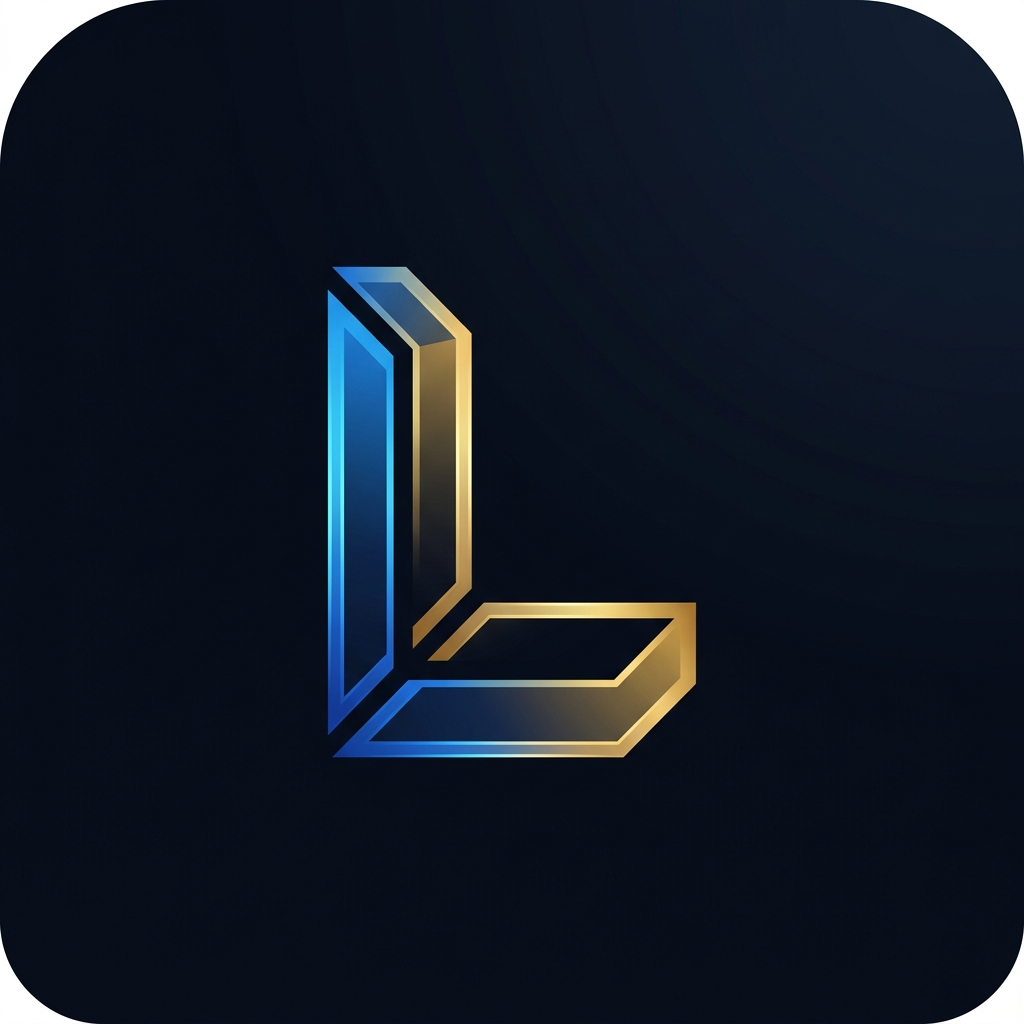
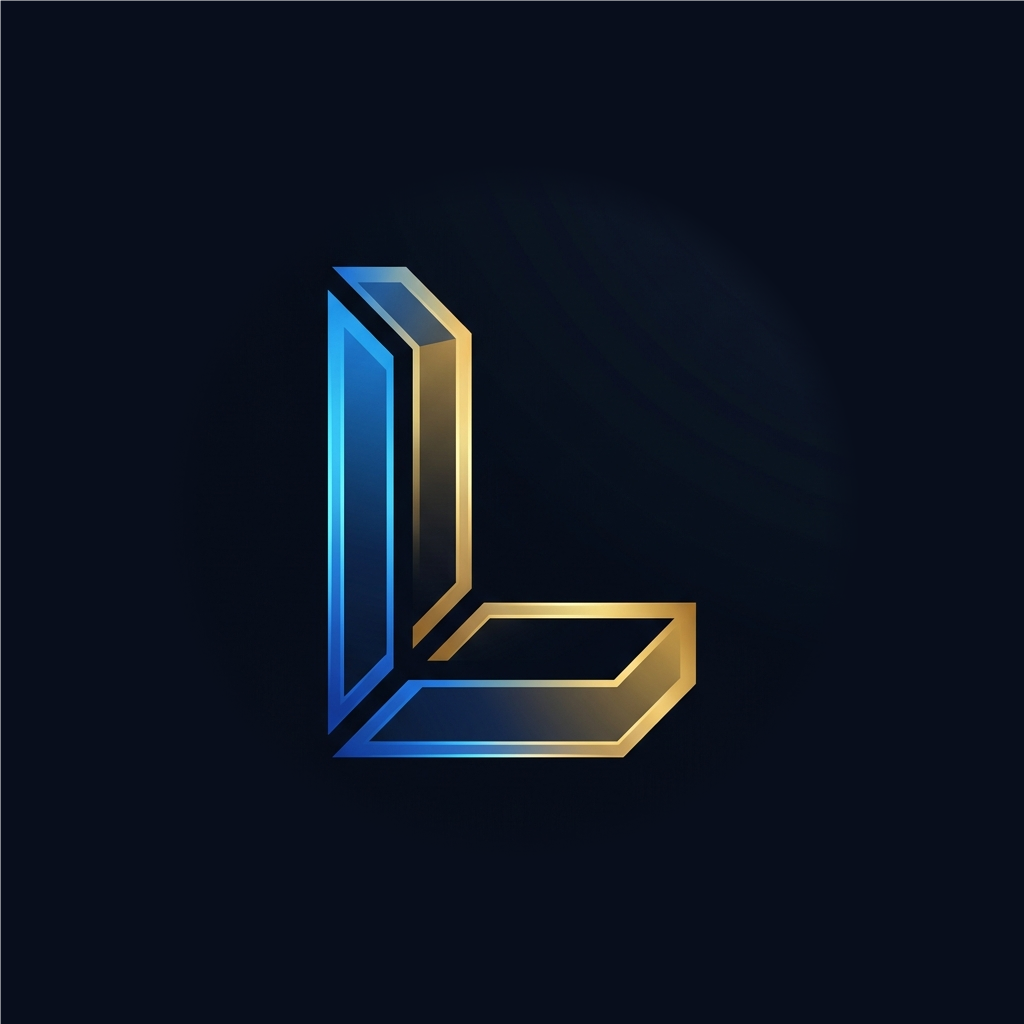
Updates

diff --git a/expo-assets/static/js/web/index-f96b5b28df9b825a304aec726748c597.js b/expo-assets/static/js/web/index-f96b5b28df9b825a304aec726748c597.js
@@ -301,7 +301,7 @@ __d(function(g,r,i,a,m,e,d){
    * LICENSE file in the root directory of this source tree.
    */
 "use strict";var n=Symbol.for("react.transitional.element"),t=Symbol.for("react.fragment");function o(t,o,f){var l=null;if(void 0!==f&&(l=""+f),void 0!==o.key&&(l=""+o.key),"key"in o)for(var y in f={},o)"key"!==y&&(f[y]=o[y]);else f=o;return o=f.ref,{$$typeof:n,type:t,key:l,ref:void 0!==o?o:null,props:f}}e.Fragment=t,e.jsx=o,e.jsxs=o},246,[]);
-__d(function(e,t,i,s,n,r,a){n.exports={uri:"/licencias_app/assets/assets/logo.6e4ebfce959f1e97fd2945d6f9361ca5.png",width:1024,height:1024,toString(){return this.uri}}},247,[]);
+__d(function(t,i,s,a,e,n,r){e.exports={uri:"/licencias_app/assets/assets/logo.a2f932022139d8ce589431a40a355769.png",width:1024,height:1024,toString(){return this.uri}}},247,[]);
 __d(function(g,r,i,a,m,_e,d){"use strict";function e(e){return e&&e.__esModule?e:{default:e}}Object.defineProperty(_e,'__esModule',{value:!0}),Object.defineProperty(_e,"Navigation",{enumerable:!0,get:function(){return u}}),r(d[0]);var t=e(r(d[1])),o=e(r(d[2])),n=e(r(d[3])),l=e(r(d[4])),c=e(r(d[5])),s=r(d[6]),b=r(d[7]);const u=({currentTab:e,onSelectTab:n,matchesCount:s})=>{const{width:u}=(0,c.default)(),h=u<768,y=[{key:'dashboard',label:'Inicio',icon:'\ud83d\udcca'},{key:'matches',label:h?'Cruces':'Cruces & Avisos',icon:'\u26a1',badge:s},{key:'vendedores',label:'Vendedores',icon:'\ud83d\ude95'},{key:'compradores',label:'Compradores',icon:'\ud83d\udc65'},{key:'ajustes',label:'Ajustes',icon:'\u2699\ufe0f'}];return(0,b.jsx)(t.default,{style:f.navContainer,children:(0,b.jsx)(t.default,{style:[f.barContent,h?f.barContentMobile:f.barContentDesktop],children:y.map(c=>{const s=e===c.key;return(0,b.jsxs)(l.default,{style:[f.tabItem,h?f.tabItemMobile:f.tabItemDesktop,s&&f.tabItemActive],onPress:()=>n(c.key),activeOpacity:.7,children:[(0,b.jsxs)(t.default,{style:f.iconContainer,children:[(0,b.jsx)(o.default,{style:f.iconText,children:c.icon}),'number'==typeof c.badge&&c.badge>0&&(0,b.jsx)(t.default,{style:f.badge,children:(0,b.jsx)(o.default,{style:f.badgeText,children:c.badge})})]}),(0,b.jsx)(o.default,{style:[f.tabLabel,h&&f.tabLabelMobile,s&&f.tabLabelActive],numberOfLines:1,children:c.label})]},c.key)})})})},f=n.default.create({navContainer:{backgroundColor:s.colors.surface,borderBottomWidth:1,borderBottomColor:s.colors.border,width:'100%'},barContent:{flexDirection:'row',width:'100%'},barContentMobile:{justifyContent:'space-between',paddingHorizontal:2},barContentDesktop:{justifyContent:'center',maxWidth:1100,alignSelf:'center',paddingHorizontal:16,gap:8},tabItem:{alignItems:'center',justifyContent:'center',borderBottomWidth:3,borderBottomColor:'transparent'},tabItemMobile:{flex:1,height:52,alignItems:'center',justifyContent:'center',paddingVertical:4},tabItemDesktop:{flexDirection:'row',paddingVertical:12,paddingHorizontal:16,gap:8},tabItemActive:{borderBottomColor:s.colors.primary,backgroundColor:'rgba(37, 99, 235, 0.08)'},iconContainer:{width:32,height:22,alignItems:'center',justifyContent:'center',position:'relative'},iconText:{fontSize:16,textAlign:'center'},badge:{position:'absolute',top:-4,right:-4,backgroundColor:s.colors.accent,borderRadius:8,minWidth:16,height:16,justifyContent:'center',alignItems:'center',paddingHorizontal:3},badgeText:{color:'#000',fontSize:9,fontWeight:'900'},tabLabel:{fontSize:13,fontWeight:'600',color:s.colors.textMuted},tabLabelMobile:{fontSize:10,fontWeight:'700',marginTop:2,textAlign:'center'},tabLabelActive:{color:s.colors.text,fontWeight:'800'}})},248,[38,145,235,46,236,239,177,245]);
 __d(function(g,r,i,a,m,_e,d){"use strict";function e(e){return e&&e.__esModule?e:{default:e}}Object.defineProperty(_e,'__esModule',{value:!0}),Object.defineProperty(_e,"VendedorModal",{enumerable:!0,get:function(){return j}});var t=r(d[0]),l=e(r(d[1])),o=e(r(d[2])),s=e(r(d[3])),c=e(r(d[4])),n=e(r(d[5])),u=e(r(d[6])),x=e(r(d[7])),h=e(r(d[8])),f=r(d[9]),C=r(d[10]),A=r(d[11]);const p=['LUNES','MARTES','MIERCOLES','JUEVES','VIERNES','EUROTAXI','ELECTRICO_SIN_LIBRANZA'],j=({visible:e,onClose:s,onSave:j,vendedorToEdit:y})=>{const[b,O]=(0,t.useState)(''),[I,E]=(0,t.useState)(''),[S,R]=(0,t.useState)('TELEFONO'),[v,N]=(0,t.useState)(''),[B,L]=(0,t.useState)('PARTICULAR'),[P,_]=(0,t.useState)('LUNES'),[w,M]=(0,t.useState)('PAR'),[D,W]=(0,t.useState)('SIN_CARGA'),[z,F]=(0,t.useState)(''),[k,G]=(0,t.useState)('SOLO_LICENCIA'),[V,U]=(0,t.useState)(''),[H,J]=(0,t.useState)(''),[K,q]=(0,t.useState)(''),[X,Y]=(0,t.useState)('SIN_CARGA'),[Z,$]=(0,t.useState)(''),[Q,ee]=(0,t.useState)(!1),[te,le]=(0,t.useState)(''),[oe,re]=(0,t.useState)(''),[se,ae]=(0,t.useState)(''),[ce,ne]=(0,t.useState)(!1),[ie,de]=(0,t.useState)('INMEDIATA'),[ue,xe]=(0,t.useState)(''),[he,fe]=(0,t.useState)(''),[Ce,Ae]=(0,t.useState)(''),[pe,je]=(0,t.useState)('DISPONIBLE');(0,t.useEffect)(()=>{if(y){O(y.nombre),E(y.telefono),R(y.canalContacto||'TELEFONO'),N(y.contactoOrigen||''),L(y.perfil),_(y.diaLibranza),M(y.turnoDescanso||'PAR'),W(y.cargaLicencia),F(y.detalleCargaLicencia||'');const e=y.modalidadVentaCoche||(y.vendeConCoche?'CON_COCHE':'SOLO_LICENCIA');G(e),y.vehiculo?(U(y.vehiculo.modelo),J(String(y.vehiculo.anoMatriculacion)),q(String(y.vehiculo.kilometros)),Y(y.vehiculo.carga),$(y.vehiculo.detalleCarga||''),ee(Boolean(y.vehiculo.exentoLibranza)),le(y.vehiculo.detalleExencion||'')):(U(''),J(''),q(''),Y('SIN_CARGA'),$(''),ee(!1),le('')),re(y.precio?String(y.precio):''),ae(y.precioConCoche?String(y.precioConCoche):''),ne(y.precioNegociable),de(y.condicionVenta),xe(y.fechaJubilacion||''),fe(y.detalleCondicion||''),Ae(y.notas||''),je(y.estado)}else O(''),E(''),R('TELEFONO'),N(''),L('PARTICULAR'),_('LUNES'),M('PAR'),W('SIN_CARGA'),F(''),G('SOLO_LICENCIA'),U(''),J(''),q(''),Y('SIN_CARGA'),$(''),ee(!1),le(''),re(''),ae(''),ne(!1),de('INMEDIATA'),xe(''),fe(''),Ae(''),je('DISPONIBLE')},[y,e]);return(0,A.jsx)(c.default,{visible:e,animationType:"slide",transparent:!0,onRequestClose:s,children:(0,A.jsx)(l.default,{style:T.overlay,children:(0,A.jsxs)(l.default,{style:T.modalBox,children:[(0,A.jsxs)(l.default,{style:T.header,children:[(0,A.jsxs)(l.default,{children:[(0,A.jsx)(o.default,{style:T.title,children:y?'\u270f\ufe0f Editar Vendedor':'\u2795 Nuevo Vendedor / Licencia'}),(0,A.jsx)(o.default,{style:T.subtitle,children:"Introduce los datos de la licencia para venta"})]}),(0,A.jsx)(n.default,{style:T.closeBtn,onPress:s,children:(0,A.jsx)(o.default,{style:T.closeText,children:"\u2715"})})]}),(0,A.jsxs)(x.default,{style:T.scrollArea,keyboardShouldPersistTaps:"handled",children:[(0,A.jsxs)(l.default,{style:T.section,children:[(0,A.jsx)(o.default,{style:T.sectionTitle,children:"1. CANAL DE CONTACTO Y PERFIL"}),(0,A.jsxs)(l.default,{style:T.inputGroup,children:[(0,A.jsx)(o.default,{style:T.label,children:"Canal / Plataforma de Origen"}),(0,A.jsxs)(l.default,{style:T.selectorRow,children:[(0,A.jsx)(n.default,{style:[T.selectorBtn,'TELEFONO'===S&&{backgroundColor:f.colors.canales.TELEFONO,borderColor:f.colors.canales.TELEFONO}],onPress:()=>R('TELEFONO'),children:(0,A.jsx)(o.default,{style:[T.selectorText,'TELEFONO'===S&&T.selectorTextActive],children:"\ud83d\udcde Tel\xe9fono"})}),(0,A.jsx)(n.default,{style:[T.selectorBtn,'WALLAPOP'===S&&{backgroundColor:f.colors.canales.WALLAPOP,borderColor:f.colors.canales.WALLAPOP}],onPress:()=>R('WALLAPOP'),children:(0,A.jsx)(o.default,{style:[T.selectorText,'WALLAPOP'===S&&T.selectorTextActive],children:"\ud83d\udfe0 Wallapop"})}),(0,A.jsx)(n.default,{style:[T.selectorBtn,'MILANUNCIOS'===S&&{backgroundColor:f.colors.canales.MILANUNCIOS,borderColor:f.colors.canales.MILANUNCIOS}],onPress:()=>R('MILANUNCIOS'),children:(0,A.jsx)(o.default,{style:[T.selectorText,'MILANUNCIOS'===S&&T.selectorTextActive],children:"\ud83d\udfe2 Milanuncios"})}),(0,A.jsx)(n.default,{style:[T.selectorBtn,'FACEBOOK'===S&&{backgroundColor:f.colors.canales.FACEBOOK,borderColor:f.colors.canales.FACEBOOK}],onPress:()=>R('FACEBOOK'),children:(0,A.jsx)(o.default,{style:[T.selectorText,'FACEBOOK'===S&&T.selectorTextActive],children:"\ud83d\udd35 Facebook"})}),(0,A.jsx)(n.default,{style:[T.selectorBtn,'OTRO'===S&&{backgroundColor:f.colors.canales.OTRO,borderColor:f.colors.canales.OTRO}],onPress:()=>R('OTRO'),children:(0,A.jsx)(o.default,{style:[T.selectorText,'OTRO'===S&&T.selectorTextActive],children:"\ud83d\udcac Otro"})})]})]}),(0,A.jsxs)(l.default,{style:T.row,children:[(0,A.jsxs)(l.default,{style:T.col,children:[(0,A.jsx)(o.default,{style:T.label,children:"Nombre o Alias *"}),(0,A.jsx)(u.default,{style:T.input,value:b,onChangeText:O,placeholder:'TELEFONO'===S?"Ej. Juan P\xe9rez":"Ej. Carlos (Wallapop)",placeholderTextColor:f.colors.textSubtle})]}),(0,A.jsxs)(l.default,{style:T.col,children:[(0,A.jsx)(o.default,{style:T.label,children:'TELEFONO'===S?'Tel\xe9fono / WhatsApp':'Tel\xe9fono (Opcional)'}),(0,A.jsx)(u.default,{style:T.input,value:I,onChangeText:E,placeholder:'TELEFONO'===S?"600 000 000":"Pendiente de pedir",placeholderTextColor:f.colors.textSubtle,keyboardType:"phone-pad"})]})]}),'TELEFONO'!==S&&(0,A.jsxs)(l.default,{style:T.inputGroup,children:[(0,A.jsxs)(o.default,{style:T.label,children:["Usuario o Enlace del chat (",'WALLAPOP'===S?'Wallapop':'MILANUNCIOS'===S?'Milanuncios':'FACEBOOK'===S?'Facebook':'Plataforma',")"]}),(0,A.jsx)(u.default,{style:T.input,value:v,onChangeText:N,placeholder:"Ej. @carlos_taxi o enlace del chat / anuncio...",placeholderTextColor:f.colors.textSubtle}),(0,A.jsx)(o.default,{style:T.sublabel,children:"\ud83d\udca1 Puedes guardarlo sin tel\xe9fono ahora y a\xf1adirlo cuando te lo facilite en la conversaci\xf3n."})]}),(0,A.jsxs)(l.default,{style:T.inputGroup,children:[(0,A.jsx)(o.default,{style:T.label,children:"Tipo de Vendedor"}),(0,A.jsxs)(l.default,{style:T.selectorRow,children:[(0,A.jsx)(n.default,{style:[T.selectorBtn,'PARTICULAR'===B&&T.selectorBtnActive],onPress:()=>L('PARTICULAR'),children:(0,A.jsx)(o.default,{style:[T.selectorText,'PARTICULAR'===B&&T.selectorTextActive],children:"Particular"})}),(0,A.jsx)(n.default,{style:[T.selectorBtn,'INTERMEDIARIO'===B&&T.selectorBtnActive],onPress:()=>L('INTERMEDIARIO'),children:(0,A.jsx)(o.default,{style:[T.selectorText,'INTERMEDIARIO'===B&&T.selectorTextActive],children:"Intermediario / Gestor"})})]})]})]}),(0,A.jsxs)(l.default,{style:T.section,children:[(0,A.jsx)(o.default,{style:T.sectionTitle,children:"2. DATOS DE LA LICENCIA"}),(0,A.jsxs)(l.default,{style:T.inputGroup,children:[(0,A.jsx)(o.default,{style:T.label,children:"D\xeda de Libranza Semanal"}),(0,A.jsx)(l.default,{style:T.diasRow,children:p.map(e=>{const t=P===e;return(0,A.jsx)(n.default,{style:[T.diaBtn,t&&{backgroundColor:f.colors.libranza[e]||f.colors.primary,borderColor:f.colors.libranza[e]}],onPress:()=>{_(e),'EUROTAXI'===e||'ELECTRICO_SIN_LIBRANZA'===e?M('LIBRE_24H'):'LIBRE_24H'===w&&M('PAR')},children:(0,A.jsx)(o.default,{style:[T.diaBtnText,t&&T.diaBtnTextActive],children:'EUROTAXI'===e?'\u267f EUROTAXI':'ELECTRICO_SIN_LIBRANZA'===e?'\u26a1 EL\xc9CTRICO (Sin libranza)':e})},e)})})]}),(0,A.jsxs)(l.default,{style:T.inputGroup,children:[(0,A.jsx)(o.default,{style:T.label,children:"R\xe9gimen de Turno / Fin de Semana (Par o Impar)"}),(0,A.jsxs)(l.default,{style:T.selectorRow,children:[(0,A.jsx)(n.default,{style:[T.selectorBtn,'PAR'===w&&T.selectorBtnActive],onPress:()=>M('PAR'),children:(0,A.jsx)(o.default,{style:[T.selectorText,'PAR'===w&&T.selectorTextActive],children:"\ud83d\udd22 PAR (Finde Par)"})}),(0,A.jsx)(n.default,{style:[T.selectorBtn,'IMPAR'===w&&T.selectorBtnActive],onPress:()=>M('IMPAR'),children:(0,A.jsx)(o.default,{style:[T.selectorText,'IMPAR'===w&&T.selectorTextActive],children:"\ud83d\udd22 IMPAR (Finde Impar)"})}),(0,A.jsx)(n.default,{style:[T.selectorBtn,'ROTATIVO'===w&&T.selectorBtnActive],onPress:()=>M('ROTATIVO'),children:(0,A.jsx)(o.default,{style:[T.selectorText,'ROTATIVO'===w&&T.selectorTextActive],children:"\ud83d\udd04 Finde alterno"})}),(0,A.jsx)(n.default,{style:[T.selectorBtn,'LIBRE_24H'===w&&T.selectorBtnActive],onPress:()=>M('LIBRE_24H'),children:(0,A.jsx)(o.default,{style:[T.selectorText,'LIBRE_24H'===w&&T.selectorTextActive],children:"\ud83d\udfe2 Libre / 24h"})})]})]}),(0,A.jsxs)(l.default,{style:T.inputGroup,children:[(0,A.jsx)(o.default,{style:T.label,children:"Carga de la Licencia (Pr\xe9stamo / Otro)"}),(0,A.jsxs)(l.default,{style:T.selectorRow,children:[(0,A.jsx)(n.default,{style:[T.selectorBtn,'SIN_CARGA'===D&&T.selectorBtnActive],onPress:()=>W('SIN_CARGA'),children:(0,A.jsx)(o.default,{style:[T.selectorText,'SIN_CARGA'===D&&T.selectorTextActive],children:"Sin Carga (Libre)"})}),(0,A.jsx)(n.default,{style:[T.selectorBtn,'PRESTAMO'===D&&T.selectorBtnActive],onPress:()=>W('PRESTAMO'),children:(0,A.jsx)(o.default,{style:[T.selectorText,'PRESTAMO'===D&&T.selectorTextActive],children:"Con Pr\xe9stamo"})}),(0,A.jsx)(n.default,{style:[T.selectorBtn,'OTRO'===D&&T.selectorBtnActive],onPress:()=>W('OTRO'),children:(0,A.jsx)(o.default,{style:[T.selectorText,'OTRO'===D&&T.selectorTextActive],children:"Otra Carga"})})]}),'SIN_CARGA'!==D&&(0,A.jsx)(u.default,{style:[T.input,{marginTop:8}],value:z,onChangeText:F,placeholder:"Detalle de la carga (banco, importe pendiente, mensualidad...)",placeholderTextColor:f.colors.textSubtle})]})]}),(0,A.jsxs)(l.default,{style:T.section,children:[(0,A.jsx)(o.default,{style:T.sectionTitle,children:"3. VEH\xcdCULO / PACK DE VENTA"}),(0,A.jsx)(o.default,{style:T.sublabel,children:"\xbfC\xf3mo comercializa la licencia respecto al veh\xedculo?"}),(0,A.jsxs)(l.default,{style:T.selectorRow,children:[(0,A.jsx)(n.default,{style:[T.selectorBtn,'SOLO_LICENCIA'===k&&T.selectorBtnActive],onPress:()=>G('SOLO_LICENCIA'),children:(0,A.jsx)(o.default,{style:[T.selectorText,'SOLO_LICENCIA'===k&&T.selectorTextActive],children:"Solo Licencia"})}),(0,A.jsx)(n.default,{style:[T.selectorBtn,'CON_COCHE'===k&&T.selectorBtnActive],onPress:()=>G('CON_COCHE'),children:(0,A.jsx)(o.default,{style:[T.selectorText,'CON_COCHE'===k&&T.selectorTextActive],children:"Con Coche (Pack)"})}),(0,A.jsx)(n.default,{style:[T.selectorBtn,'AMBAS_OPCIONES'===k&&T.selectorBtnActive],onPress:()=>G('AMBAS_OPCIONES'),children:(0,A.jsx)(o.default,{style:[T.selectorText,'AMBAS_OPCIONES'===k&&T.selectorTextActive],children:"\u2728 Ambas Opciones"})})]}),'AMBAS_OPCIONES'===k&&(0,A.jsx)(l.default,{style:T.infoBanner,children:(0,A.jsxs)(o.default,{style:T.infoBannerText,children:["\ud83d\udca1 ",(0,A.jsx)(o.default,{style:{fontWeight:'700'},children:"Venta Flexible:"})," El vendedor ofrece vender solo la licencia (se queda su veh\xedculo) o vender el pack completo con coche. Podr\xe1s fijar ambos precios a continuaci\xf3n."]})}),'SOLO_LICENCIA'!==k&&(0,A.jsxs)(l.default,{style:T.subBox,children:[(0,A.jsxs)(l.default,{style:T.inputGroup,children:[(0,A.jsx)(o.default,{style:T.label,children:"Modelo del veh\xedculo"}),(0,A.jsx)(u.default,{style:T.input,value:V,onChangeText:U,placeholder:"Ej. Tesla Model Y / Toyota Corolla / Prius...",placeholderTextColor:f.colors.textSubtle})]}),(0,A.jsxs)(l.default,{style:T.row,children:[(0,A.jsxs)(l.default,{style:T.col,children:[(0,A.jsx)(o.default,{style:T.label,children:"A\xf1o o Antig\xfcedad"}),(0,A.jsx)(u.default,{style:T.input,value:H,onChangeText:J,placeholder:"Ej. 2023 o 3.5 a\xf1os",placeholderTextColor:f.colors.textSubtle})]}),(0,A.jsxs)(l.default,{style:T.col,children:[(0,A.jsx)(o.default,{style:T.label,children:"Kil\xf3metros"}),(0,A.jsx)(u.default,{style:T.input,value:K,onChangeText:q,placeholder:"Ej. 95.000",placeholderTextColor:f.colors.textSubtle,keyboardType:"numeric"})]})]}),(0,A.jsxs)(l.default,{style:T.inputGroup,children:[(0,A.jsx)(o.default,{style:T.label,children:"Carga o Financiaci\xf3n del Veh\xedculo"}),(0,A.jsxs)(l.default,{style:T.selectorRow,children:[(0,A.jsx)(n.default,{style:[T.selectorBtn,'SIN_CARGA'===X&&T.selectorBtnActive],onPress:()=>Y('SIN_CARGA'),children:(0,A.jsx)(o.default,{style:[T.selectorText,'SIN_CARGA'===X&&T.selectorTextActive],children:"Pagado / Libre"})}),(0,A.jsx)(n.default,{style:[T.selectorBtn,'PRESTAMO'===X&&T.selectorBtnActive],onPress:()=>Y('PRESTAMO'),children:(0,A.jsx)(o.default,{style:[T.selectorText,'PRESTAMO'===X&&T.selectorTextActive],children:"Financiaci\xf3n / Reserva dominio"})})]}),'SIN_CARGA'!==X&&(0,A.jsx)(u.default,{style:[T.input,{marginTop:8}],value:Z,onChangeText:$,placeholder:"Ej. Debe 30.000\u20ac de pr\xe9stamo a liquidar de Tesla...",placeholderTextColor:f.colors.textSubtle})]}),(0,A.jsxs)(l.default,{style:[T.inputGroup,{marginTop:4}],children:[(0,A.jsxs)(l.default,{style:T.switchRow,children:[(0,A.jsxs)(l.default,{style:{flex:1,paddingRight:8},children:[(0,A.jsx)(o.default,{style:T.label,children:"\u26a1 Exenci\xf3n de Libranza (CERO Emisiones / Eurotaxi)"}),(0,A.jsx)(o.default,{style:T.sublabel,children:"\xbfPermite trabajar sin libranza obligatoria?"})]}),(0,A.jsx)(h.default,{value:Q,onValueChange:ee,trackColor:{false:f.colors.border,true:f.colors.primary},thumbColor:f.colors.white})]}),Q&&(0,A.jsx)(u.default,{style:[T.input,{marginTop:8}],value:te,onChangeText:le,placeholder:"Ej. Exenta de libranza hasta 2033 por 100% el\xe9ctrico",placeholderTextColor:f.colors.textSubtle})]})]})]}),(0,A.jsxs)(l.default,{style:T.section,children:[(0,A.jsx)(o.default,{style:T.sectionTitle,children:"4. PRECIO Y CONDICIONES GENERALES"}),'AMBAS_OPCIONES'===k?(0,A.jsxs)(l.default,{children:[(0,A.jsxs)(l.default,{style:T.row,children:[(0,A.jsxs)(l.default,{style:[T.col,{flex:1}],children:[(0,A.jsx)(o.default,{style:T.label,children:"Precio Solo Licencia (\u20ac) *"}),(0,A.jsx)(u.default,{style:[T.input,T.priceInput],value:oe,onChangeText:re,placeholder:"Ej. 190.000",placeholderTextColor:f.colors.textSubtle,keyboardType:"numeric"}),(0,A.jsx)(o.default,{style:T.sublabel,children:"Si se queda el coche"})]}),(0,A.jsxs)(l.default,{style:[T.col,{flex:1}],children:[(0,A.jsx)(o.default,{style:T.label,children:"Precio Con Coche (\u20ac) *"}),(0,A.jsx)(u.default,{style:[T.input,T.priceInput],value:se,onChangeText:ae,placeholder:"Ej. 225.000",placeholderTextColor:f.colors.textSubtle,keyboardType:"numeric"}),(0,A.jsx)(o.default,{style:T.sublabel,children:"Pack completo con coche"})]})]}),(0,A.jsxs)(l.default,{style:[T.switchBox,{marginTop:8}],children:[(0,A.jsx)(o.default,{style:{color:f.colors.text,fontSize:12,fontWeight:'600'},children:"\xbfPrecios negociables?"}),(0,A.jsxs)(l.default,{style:{flexDirection:'row',alignItems:'center',gap:8},children:[(0,A.jsx)(o.default,{style:{color:ce?f.colors.accent:f.colors.textMuted,fontWeight:'700',fontSize:12},children:ce?'Negociables':'Precios Fijos'}),(0,A.jsx)(h.default,{value:ce,onValueChange:ne,trackColor:{false:f.colors.border,true:f.colors.accent},thumbColor:f.colors.white})]})]})]}):(0,A.jsxs)(l.default,{style:T.row,children:[(0,A.jsxs)(l.default,{style:[T.col,{flex:1.4}],children:[(0,A.jsx)(o.default,{style:T.label,children:'CON_COCHE'===k?'Precio Total con Coche (\u20ac) *':'Precio de Venta Licencia (\u20ac) *'}),(0,A.jsx)(u.default,{style:[T.input,T.priceInput],value:oe,onChangeText:re,placeholder:"Ej. 190.000",placeholderTextColor:f.colors.textSubtle,keyboardType:"numeric"})]}),(0,A.jsxs)(l.default,{style:[T.col,{flex:1}],children:[(0,A.jsx)(o.default,{style:T.label,children:"\xbfEs Negociable?"}),(0,A.jsxs)(l.default,{style:T.switchBox,children:[(0,A.jsx)(o.default,{style:{color:ce?f.colors.accent:f.colors.textMuted,fontWeight:'700',fontSize:12},children:ce?'Negociable':'Precio Fijo'}),(0,A.jsx)(h.default,{value:ce,onValueChange:ne,trackColor:{false:f.colors.border,true:f.colors.accent},thumbColor:f.colors.white})]})]})]}),(0,A.jsxs)(l.default,{style:T.inputGroup,children:[(0,A.jsx)(o.default,{style:T.label,children:"Condici\xf3n de Venta"}),(0,A.jsxs)(l.default,{style:T.selectorRow,children:[(0,A.jsx)(n.default,{style:[T.selectorBtn,'INMEDIATA'===ie&&T.selectorBtnActive],onPress:()=>de('INMEDIATA'),children:(0,A.jsx)(o.default,{style:[T.selectorText,'INMEDIATA'===ie&&T.selectorTextActive],children:"Inmediata"})}),(0,A.jsx)(n.default,{style:[T.selectorBtn,'JUBILACION'===ie&&T.selectorBtnActive],onPress:()=>de('JUBILACION'),children:(0,A.jsx)(o.default,{style:[T.selectorText,'JUBILACION'===ie&&T.selectorTextActive],children:"Tras Jubilaci\xf3n"})}),(0,A.jsx)(n.default,{style:[T.selectorBtn,'OTRA'===ie&&T.selectorBtnActive],onPress:()=>de('OTRA'),children:(0,A.jsx)(o.default,{style:[T.selectorText,'OTRA'===ie&&T.selectorTextActive],children:"Otra Condici\xf3n"})})]}),'JUBILACION'===ie&&(0,A.jsxs)(l.default,{style:{marginTop:8},children:[(0,A.jsx)(o.default,{style:T.sublabel,children:"Fecha prevista de jubilaci\xf3n:"}),(0,A.jsx)(u.default,{style:T.input,value:ue,onChangeText:xe,placeholder:"Ej. 30/11/2026 o Finales de a\xf1o...",placeholderTextColor:f.colors.textSubtle})]}),'OTRA'===ie&&(0,A.jsxs)(l.default,{style:{marginTop:8},children:[(0,A.jsx)(o.default,{style:T.sublabel,children:"Especificar condici\xf3n:"}),(0,A.jsx)(u.default,{style:T.input,value:he,onChangeText:fe,placeholder:"Ej. Entrega sujeta a entrega de piso / fecha especial...",placeholderTextColor:f.colors.textSubtle})]})]}),(0,A.jsxs)(l.default,{style:T.inputGroup,children:[(0,A.jsx)(o.default,{style:T.label,children:"Notas adicionales"}),(0,A.jsx)(u.default,{style:[T.input,T.textArea],value:Ce,onChangeText:Ae,placeholder:"Detalles sobre el estado de la licencia, tax\xedmetro, revisiones...",placeholderTextColor:f.colors.textSubtle,multiline:!0,numberOfLines:3})]}),(0,A.jsxs)(l.default,{style:T.inputGroup,children:[(0,A.jsx)(o.default,{style:T.label,children:"Estado"}),(0,A.jsxs)(l.default,{style:T.selectorRow,children:[(0,A.jsx)(n.default,{style:[T.selectorBtn,'DISPONIBLE'===pe&&T.selectorBtnActive],onPress:()=>je('DISPONIBLE'),children:(0,A.jsx)(o.default,{style:[T.selectorText,'DISPONIBLE'===pe&&T.selectorTextActive],children:"Disponible"})}),(0,A.jsx)(n.default,{style:[T.selectorBtn,'EN_NEGOCIACION'===pe&&T.selectorBtnActive],onPress:()=>je('EN_NEGOCIACION'),children:(0,A.jsx)(o.default,{style:[T.selectorText,'EN_NEGOCIACION'===pe&&T.selectorTextActive],children:"En Negociaci\xf3n"})}),(0,A.jsx)(n.default,{style:[T.selectorBtn,'CERRADO'===pe&&T.selectorBtnActive],onPress:()=>je('CERRADO'),children:(0,A.jsx)(o.default,{style:[T.selectorText,'CERRADO'===pe&&T.selectorTextActive],children:"\ud83c\udfc1 Finalizada"})})]})]})]})]}),(0,A.jsxs)(l.default,{style:T.footer,children:[(0,A.jsx)(n.default,{style:T.cancelBtn,onPress:s,children:(0,A.jsx)(o.default,{style:T.cancelBtnText,children:"Cancelar"})}),(0,A.jsx)(n.default,{style:T.saveBtn,onPress:()=>{if(!b.trim())return void alert('Por favor indica el nombre del vendedor');const e=parseFloat(oe.replace(/[^\d.]/g,''))||0;if(e<=0)return void alert('Por favor introduce un precio v\xe1lido para la licencia');const t='SOLO_LICENCIA'!==k,l='AMBAS_OPCIONES'===k?parseFloat(se.replace(/[^\d.]/g,''))||void 0:'CON_COCHE'===k?e:void 0,o={id:y?y.id:`v-${Date.now()}`,nombre:b.trim(),telefono:I.trim(),canalContacto:S,contactoOrigen:'TELEFONO'!==S&&(0,C.sanitizeContactInput)(v)||void 0,fechaCreacion:y?y.fechaCreacion:(new Date).toISOString(),perfil:B,diaLibranza:P,turnoDescanso:w,cargaLicencia:D,detalleCargaLicencia:'SIN_CARGA'!==D?z.trim():void 0,vendeConCoche:t,modalidadVentaCoche:k,vehiculo:t?{modelo:V.trim()||'Veh\xedculo Taxi',anoMatriculacion:H.trim()||(new Date).getFullYear().toString(),kilometros:K.trim()||'0',carga:X,detalleCarga:'SIN_CARGA'!==X?Z.trim():void 0,exentoLibranza:Q,detalleExencion:Q?te.trim()||'Exento CERO Emisiones':void 0}:void 0,precio:e,precioConCoche:l,precioNegociable:ce,condicionVenta:ie,fechaJubilacion:'JUBILACION'===ie?ue.trim():void 0,detalleCondicion:'INMEDIATA'!==ie?he.trim():void 0,notas:Ce.trim(),estado:pe};j(o)},children:(0,A.jsx)(o.default,{style:T.saveBtnText,children:y?'Guardar Cambios':'Registrar Vendedor'})})]})]})})})},T=s.default.create({overlay:{flex:1,backgroundColor:'rgba(0,0,0,0.75)',justifyContent:'center',alignItems:'center',padding:16},modalBox:{backgroundColor:f.colors.surface,borderRadius:16,width:'100%',maxWidth:680,maxHeight:'92%',borderWidth:1,borderColor:f.colors.border,overflow:'hidden'},header:{flexDirection:'row',justifyContent:'space-between',alignItems:'center',padding:18,borderBottomWidth:1,borderBottomColor:f.colors.border,backgroundColor:f.colors.surfaceHighlight},title:{fontSize:18,fontWeight:'800',color:f.colors.text},subtitle:{fontSize:12,color:f.colors.textMuted,marginTop:2},closeBtn:{width:32,height:32,borderRadius:16,backgroundColor:f.colors.surfaceCard,justifyContent:'center',alignItems:'center',borderWidth:1,borderColor:f.colors.border},closeText:{color:f.colors.textMuted,fontSize:16,fontWeight:'700'},scrollArea:{paddingHorizontal:16,paddingTop:16,paddingBottom:20},section:{backgroundColor:f.colors.surfaceCard,borderRadius:12,padding:16,marginBottom:16,borderWidth:1,borderColor:f.colors.border,gap:14},sectionTitle:{fontSize:13,fontWeight:'800',color:f.colors.secondary,letterSpacing:.5},row:{flexDirection:'row',gap:12,alignItems:'flex-start',width:'100%'},col:{flex:1},inputGroup:{width:'100%',marginBottom:2},label:{fontSize:12,color:f.colors.text,fontWeight:'700',marginBottom:6},sublabel:{fontSize:11,color:f.colors.textMuted,marginBottom:6},input:{backgroundColor:f.colors.surface,borderWidth:1,borderColor:f.colors.border,borderRadius:8,paddingHorizontal:12,paddingVertical:10,color:f.colors.text,fontSize:14,height:44},priceInput:{fontSize:16,fontWeight:'700',color:f.colors.secondary},switchBox:{flexDirection:'row',alignItems:'center',justifyContent:'space-between',backgroundColor:f.colors.surface,borderWidth:1,borderColor:f.colors.border,borderRadius:8,paddingHorizontal:12,height:44},textArea:{minHeight:85,height:85,paddingTop:10,textAlignVertical:'top'},selectorRow:{flexDirection:'row',gap:8,flexWrap:'wrap'},selectorBtn:{flex:1,minWidth:90,backgroundColor:f.colors.surface,paddingVertical:11,paddingHorizontal:8,borderRadius:8,borderWidth:1,borderColor:f.colors.border,alignItems:'center',justifyContent:'center'},selectorBtnActive:{backgroundColor:f.colors.primary,borderColor:f.colors.primary},selectorText:{color:f.colors.textMuted,fontSize:12,fontWeight:'600'},selectorTextActive:{color:f.colors.white,fontWeight:'700'},diasRow:{flexDirection:'row',flexWrap:'wrap',gap:6},diaBtn:{paddingHorizontal:10,paddingVertical:7,borderRadius:6,borderWidth:1,borderColor:f.colors.border,backgroundColor:f.colors.surface},diaBtnText:{fontSize:11,color:f.colors.textMuted,fontWeight:'700'},diaBtnTextActive:{color:f.colors.white},switchRow:{flexDirection:'row',justifyContent:'space-between',alignItems:'center'},subBox:{backgroundColor:f.colors.surface,padding:14,borderRadius:8,borderWidth:1,borderColor:f.colors.borderLight,gap:12,marginTop:4},switchInline:{flexDirection:'row',alignItems:'center',gap:8},footer:{padding:16,backgroundColor:f.colors.surfaceHighlight,borderTopWidth:1,borderTopColor:f.colors.border,flexDirection:'row',justifyContent:'flex-end',gap:10},cancelBtn:{paddingHorizontal:16,paddingVertical:10,borderRadius:8,borderWidth:1,borderColor:f.colors.border},cancelBtnText:{color:f.colors.textMuted,fontSize:13,fontWeight:'600'},saveBtn:{backgroundColor:f.colors.primary,paddingHorizontal:20,paddingVertical:10,borderRadius:8},saveBtnText:{color:f.colors.white,fontSize:13,fontWeight:'800'},infoBanner:{backgroundColor:'#0F2942',padding:10,borderRadius:8,borderLeftWidth:3,borderLeftColor:f.colors.primary,marginTop:8,marginBottom:4},infoBannerText:{color:f.colors.text,fontSize:11,lineHeight:16}})},249,[38,145,235,46,250,236,255,257,262,177,264,245]);
 __d(function(g,r,i,a,m,_e,_d){"use strict";function e(e){return e&&e.__esModule?e:{default:e}}Object.defineProperty(_e,'__esModule',{value:!0}),Object.defineProperty(_e,"default",{enumerable:!0,get:function(){return _}});var t=e(r(_d[0])),n=e(r(_d[1])),u=(function(e){if(e&&e.__esModule)return e;var t={};return e&&Object.keys(e).forEach(function(n){var u=Object.getOwnPropertyDescriptor(e,n);Object.defineProperty(t,n,u.get?u:{enumerable:!0,get:function(){return e[n]}})}),t.default=e,t})(r(_d[2])),o=e(r(_d[3])),l=e(r(_d[4])),s=e(r(_d[5])),f=e(r(_d[6])),c=["animationType","children","onDismiss","onRequestClose","onShow","transparent","visible"],d=0,v=[],p={};function b(){if(0!==v.length){var e=v[v.length-1];v.forEach(t=>{t in p&&p[t](t===e)})}}function h(e){e in p&&(p[e](!1),delete p[e]);var t=v.indexOf(e);-1!==t&&(v.splice(t,1),b())}function y(e,t){h(e),v.push(e),p[e]=t,b()}var _=u.forwardRef((e,v)=>{var p=e.animationType,b=e.children,_=e.onDismiss,E=e.onRequestClose,O=e.onShow,j=e.transparent,w=e.visible,C=void 0===w||w,D=(0,n.default)(e,c),M=u.useMemo(()=>d++,[]),P=u.useState(!1),R=P[0],S=P[1],k=u.useCallback(()=>{h(M),_&&_()},[M,_]),q=u.useCallback(()=>{y(M,S),O&&O()},[M,O]);return u.useEffect(()=>()=>h(M),[M]),u.createElement(o.default,null,u.createElement(l.default,{animationType:p,onDismiss:k,onShow:q,visible:C},u.createElement(f.default,{active:R},u.createElement(s.default,(0,t.default)({},D,{active:R,onRequestClose:E,ref:v,transparent:j}),b))))})},250,[31,47,38,251,252,253,254]);

diff --git a/index.html b/index.html
@@ -38,6 +38,6 @@
     </noscript>
     <!-- The root element for your Expo app. -->
     <div id="root"></div>
-  <script src="/licencias_app/expo-assets/static/js/web/index-f9df55ddd8b34445afff5c1cc2d22a75.js" defer></script>
+  <script src="/licencias_app/expo-assets/static/js/web/index-f96b5b28df9b825a304aec726748c597.js" defer></script>
 </body>
 </html>
